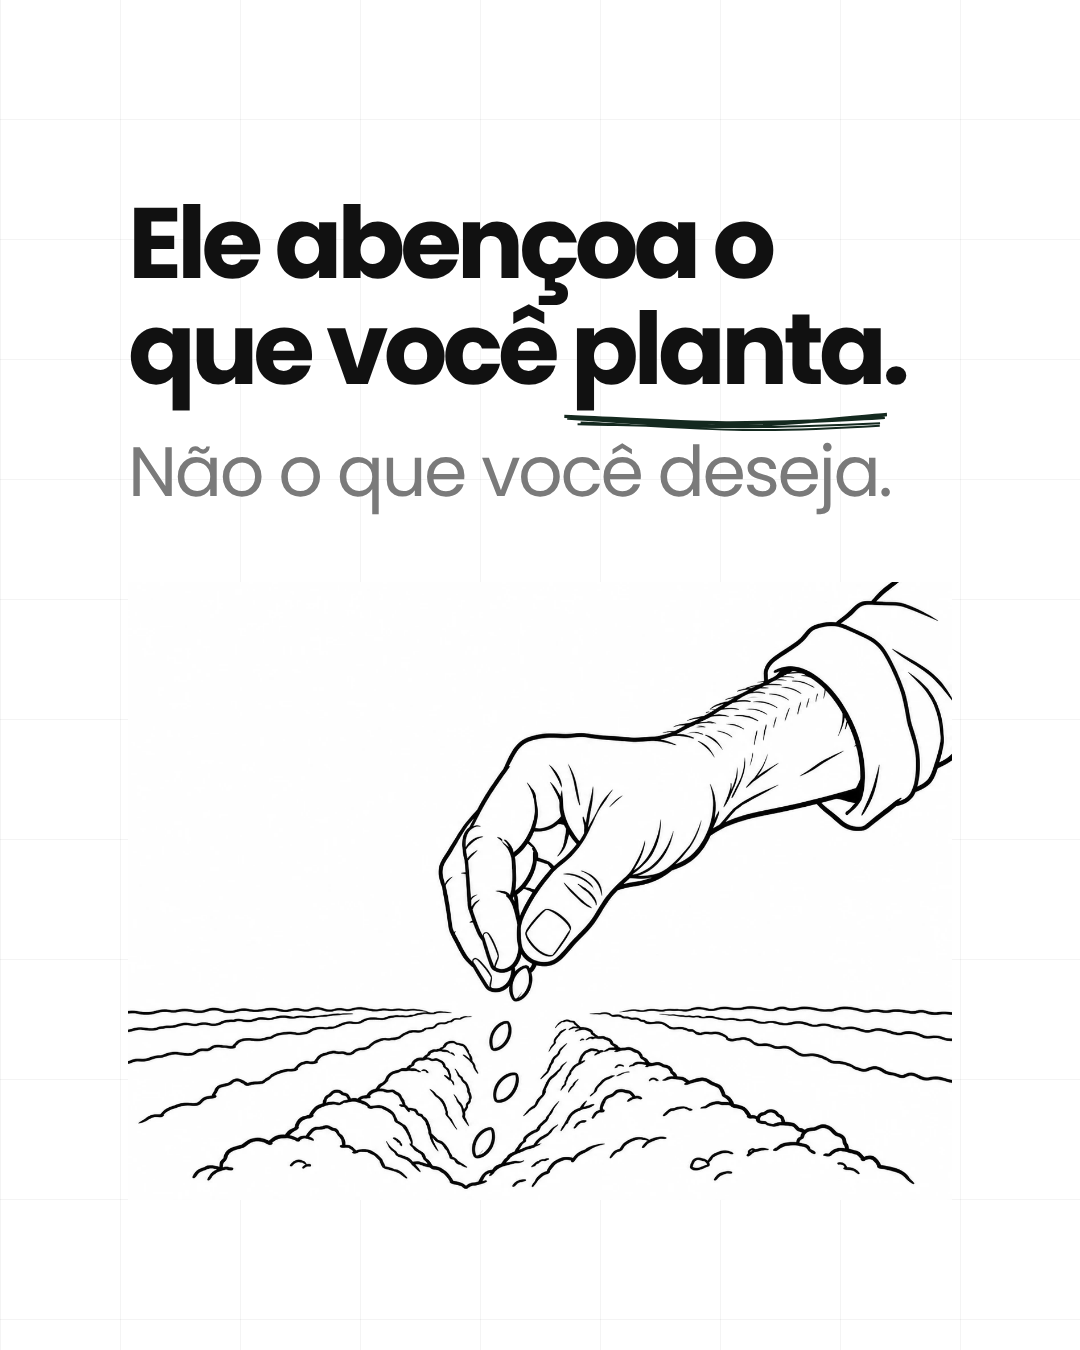
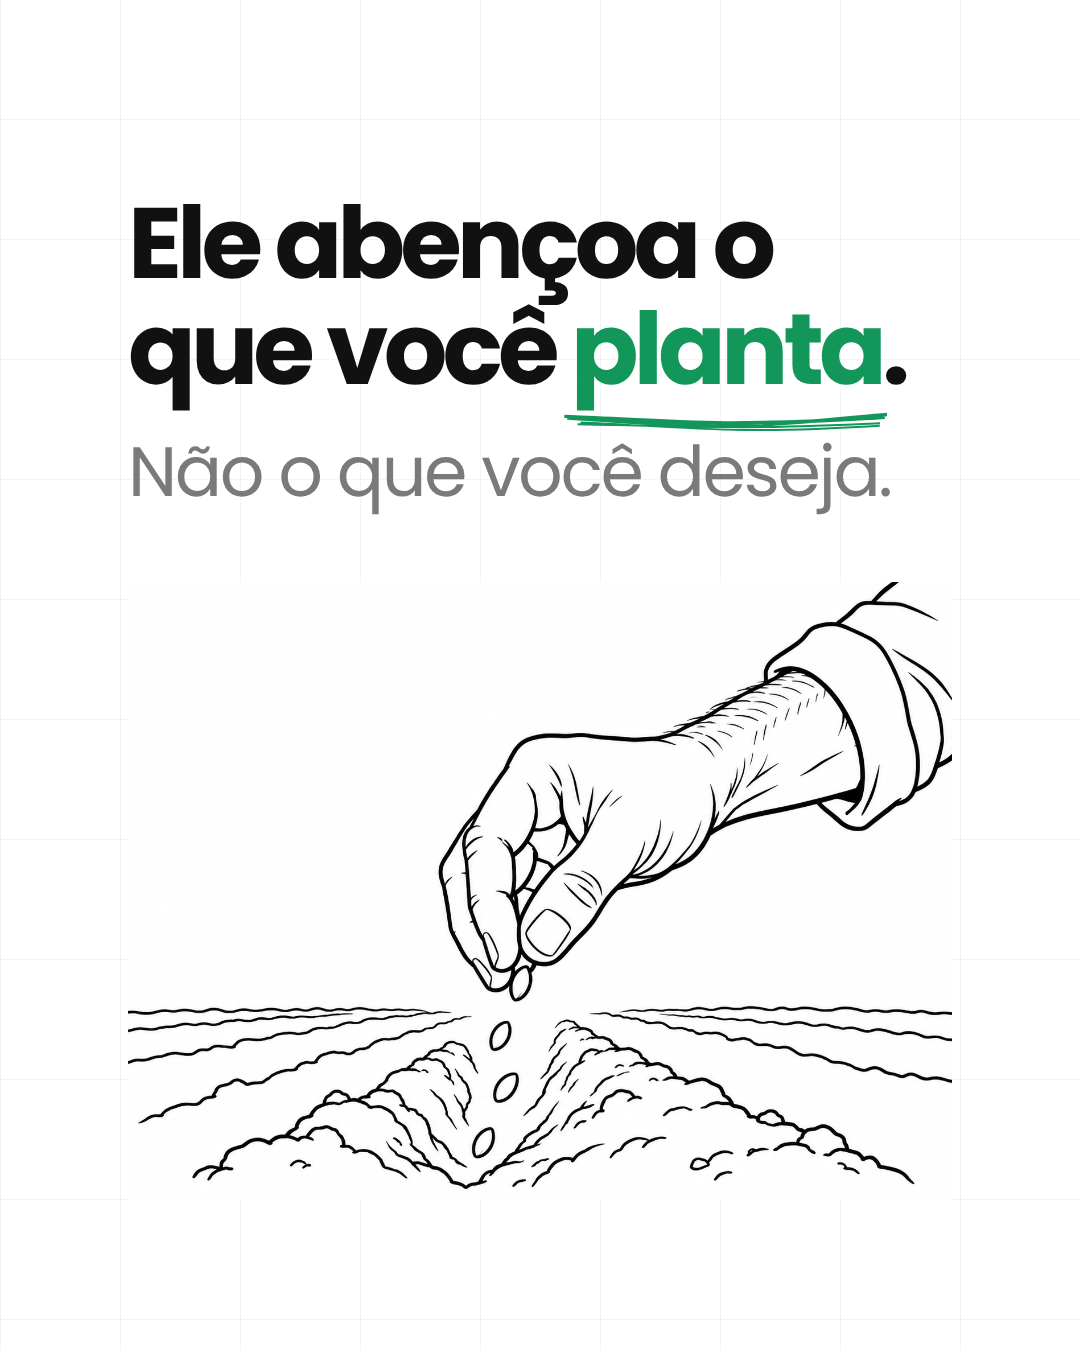
Manifesto: texto monocromático, verde só nos destaques, slides escuros em preto
Claude-Session: https://claude.ai/code/session_01CR2zLXebwu2nvAjBiSDjK9

Changed region(s): [[0.5194, 0.2178, 0.825, 0.3422]]

diff --git a/carrossel/index.html b/carrossel/index.html
@@ -114,6 +114,10 @@ body.render .frame .num{display:none}
 .man .m1{font:700 100px/1.06 Poppins,sans-serif;letter-spacing:-.05em;color:var(--ink);margin-top:40px}
 .man .m2{font:400 70px/1.14 Poppins,sans-serif;letter-spacing:-.035em;color:var(--muted);margin-top:30px}
 .man .m2 b,.man .m1 b{color:var(--ink)}
+.slide.t-preto{--bg:#0D0D0D;--ink:#FFFFFF;--body:#E6E6E6;--muted:#9A9A9A;--grid:rgba(255,255,255,.035);--glow:rgba(0,0,0,0);--ac:#3FD18A}
+.slide{--hl:#12965A}.slide.t-escuro,.slide.t-preto{--hl:#3FD18A}
+.man .hu,.man .hc{color:var(--hl)}
+.t-preto .man .mil img{mix-blend-mode:screen;filter:invert(1)}
 .man .m3{font:600 30px Poppins,sans-serif;color:var(--ac);margin-top:40px}
 .man.cit .m1{font:500 66px/1.22 Poppins,sans-serif;letter-spacing:-.03em}
 .man.cit .m2{font:500 30px Poppins,sans-serif;letter-spacing:.02em;margin-top:34px}
@@ -455,10 +459,11 @@ function drawAll(root){
       add(rc.line(x2,y2,x2-L*Math.cos(a-0.5),y2-L*Math.sin(a-0.5),O({strokeWidth:2.4,...o})));
       add(rc.line(x2,y2,x2-L*Math.cos(a+0.5),y2-L*Math.sin(a+0.5),O({strokeWidth:2.4,...o})))};
     // marcações no texto
-    sl.querySelectorAll(".hc").forEach(e=>{const b=offs(e,sl); add(rc.ellipse(b.x+b.w/2,b.y+b.h/2+3,b.w+34,b.h+14,O({stroke:ac,strokeWidth:3,roughness:.9,bowing:.4})))});
+    const hl=cs.getPropertyValue("--hl").trim()||ac, mk=sl.querySelector(".man")?hl:ac;
+    sl.querySelectorAll(".hc").forEach(e=>{const b=offs(e,sl); add(rc.ellipse(b.x+b.w/2,b.y+b.h/2+3,b.w+34,b.h+14,O({stroke:mk,strokeWidth:3,roughness:.9,bowing:.4})))});
     sl.querySelectorAll(".hu").forEach(e=>{const b=offs(e,sl); const y=b.y+b.h-2;
-      add(rc.curve([[b.x-4,y],[b.x+b.w*.5,y+7],[b.x+b.w+6,y-3]],O({stroke:ac,strokeWidth:3.4,roughness:1.8})));
-      add(rc.curve([[b.x+8,y+7],[b.x+b.w*.55,y+10],[b.x+b.w-4,y+6]],O({stroke:ac,strokeWidth:2,roughness:1.6})))});
+      add(rc.curve([[b.x-4,y],[b.x+b.w*.5,y+7],[b.x+b.w+6,y-3]],O({stroke:mk,strokeWidth:3.4,roughness:1.8})));
+      add(rc.curve([[b.x+8,y+7],[b.x+b.w*.55,y+10],[b.x+b.w-4,y+6]],O({stroke:mk,strokeWidth:2,roughness:1.6})))});
     // gancho: seta à mão depois do texto
     const head=(pts,o={})=>{const n=pts.length,[x1,y1]=pts[n-2],[x2,y2]=pts[n-1],a=Math.atan2(y2-y1,x2-x1),L=22;
       add(rc.curve(pts,O({strokeWidth:2.6,...o})));

diff --git a/.claude/skills/carrossel/SKILL.md b/.claude/skills/carrossel/SKILL.md
@@ -48,6 +48,8 @@ Objetivo: máxima qualidade com o mínimo de tokens. **Não leia** `index.html`,
 | `cartoes` | título A \| texto A (✗) \| título B \| texto B (✓) |
 | `troca` | você dá \| valor \| você recebe \| valor |
 
+**Cores do manifesto:** monocromático (branco/preto + cinza) para o texto; **verde só no destaque** (`{{palavra}}` fica verde `#12965A` com sublinhado à mão; no fundo preto `#3FD18A`). Slides escuros do manifesto usam `"tema":"preto"` (não o verde).
+
 **Manifesto (trilha viral):** `{"tipo":"manifesto","linha1":"frase forte","linha2":"contraponto (mais leve)","linha3":"opcional pequeno","desenho":"…","citacao":true,"cta":true}` — **manifesto é só tipografia** (o usuário achou os desenhos abstratos/ruins): frase grande centralizada + `{{palavra-chave}}` sublinhada à mão. Não usar desenho de código no manifesto. **Ilustração externa** (traço preto grosso estilo vetor, fundo branco — o usuário gera no GPT): salve em `carrosseis/<pasta>/ilustracoes/*.png` e use `"ilustracao": "ilustracoes/x.png"` no slide (fica abaixo do texto, fundo branco some com multiply).
 Prompt-base para o usuário: "Estilo: ilustração em linha preta grossa e uniforme, estilo vetor (line art), traço limpo e contínuo, sem sombreado, sem hachura, sem cor, sem texto. Fundo branco puro. Composição minimalista, objeto centralizado com bastante espaço em branco ao redor. Formato 4:3, alta resolução." 
 
